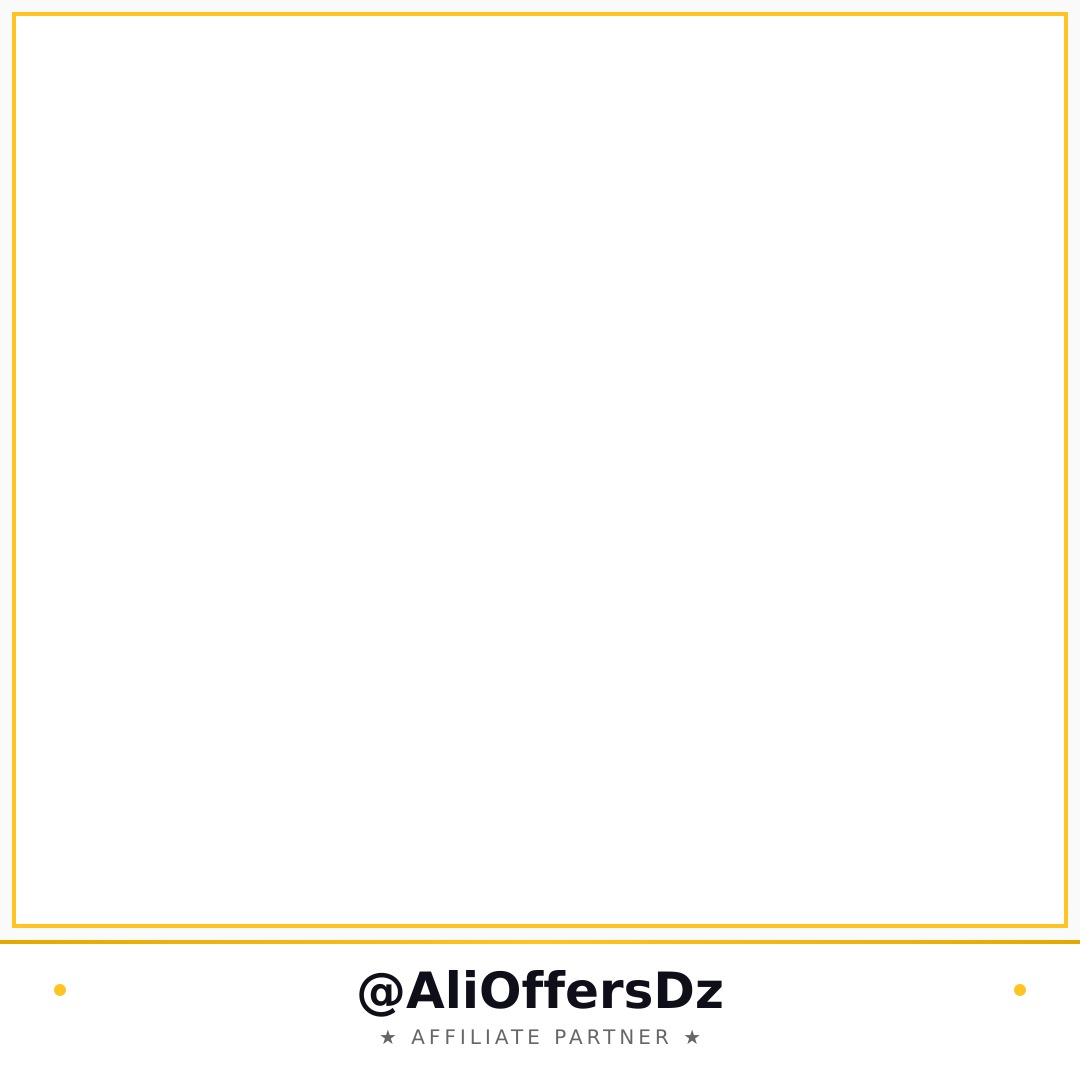
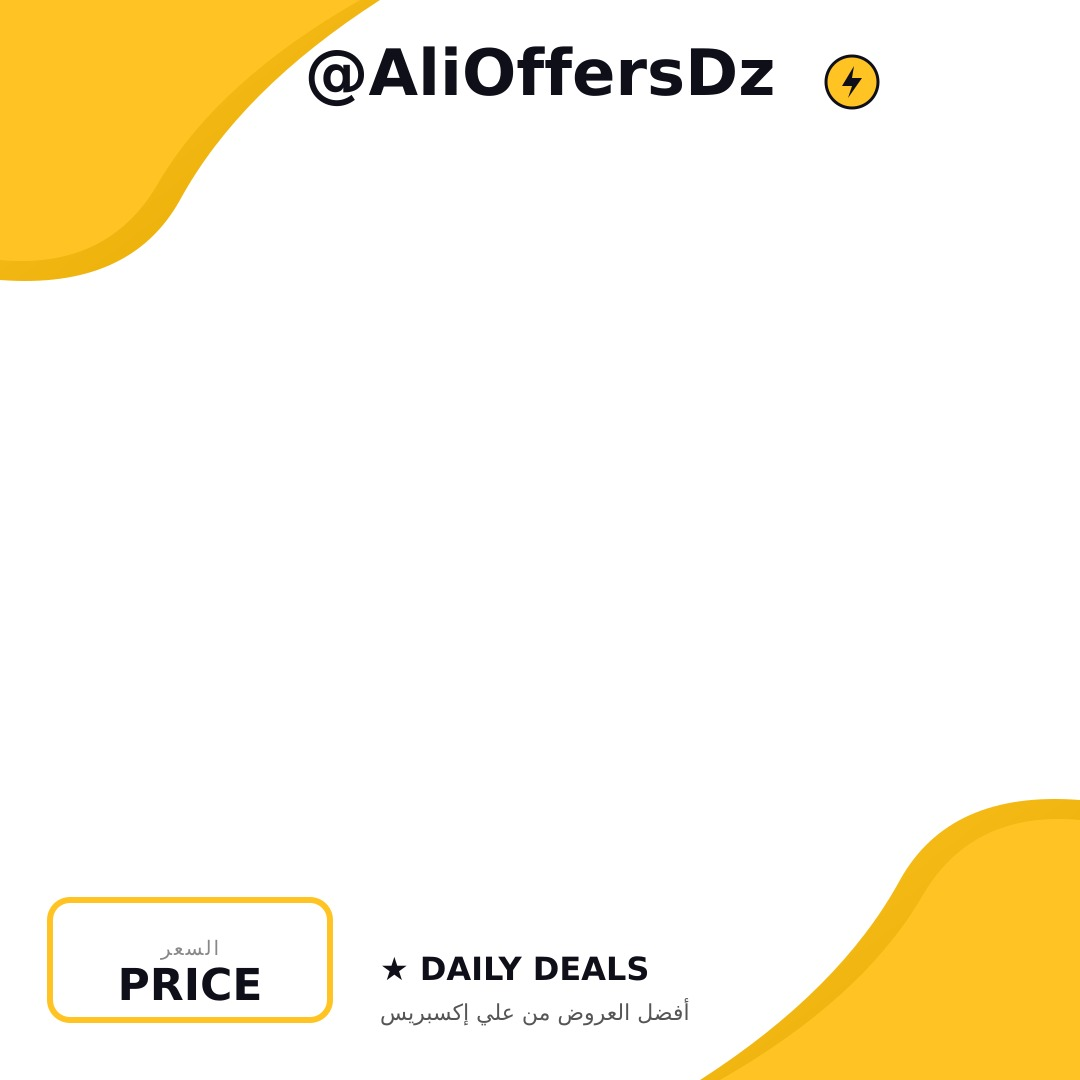
Update product display frame with new yellow design
Adjusts image processing in server.js and spy.js to accommodate a new frame layout with yellow corner accents and a prominent channel name, by modifying the product image's display area.

Replit-Commit-Author: Agent
Replit-Commit-Session-Id: a89dbef6-46b1-4384-9ed6-a8899594a70d
Replit-Commit-Checkpoint-Type: full_checkpoint
Replit-Commit-Event-Id: 2db6a3f4-3440-4351-8a7b-8e246a01739d
Replit-Commit-Screenshot-Url: https://storage.googleapis.com/screenshot-production-us-central1/1842d263-0a1c-4a9c-a11e-cf92325f49a5/a89dbef6-46b1-4384-9ed6-a8899594a70d/TJaDCon
Replit-Helium-Checkpoint-Created: true

Changed region(s): [[0.0, 0.0, 1.0, 1.0]]

diff --git a/scripts/build-frame.js b/scripts/build-frame.js
@@ -1,0 +1,80 @@
+// يُنشئ إطار custom_frame.jpg بأسلوب RT DEALS (انحناءات صفراء + رأس القناة)
+// منطقة المنتج: top=15%, height=70%, left=2%, width=96% — يجب مطابقتها في spy.js و server.js
+const sharp = require('sharp');
+const path = require('path');
+
+const SIZE = 1080;
+const YELLOW = '#FFC424';
+const YELLOW_DARK = '#E5A800';
+const DARK = '#0F0F1A';
+
+const svg = `
+<svg width="${SIZE}" height="${SIZE}" xmlns="http://www.w3.org/2000/svg">
+  <defs>
+    <linearGradient id="yShine" x1="0" y1="0" x2="1" y2="1">
+      <stop offset="0" stop-color="${YELLOW}"/>
+      <stop offset="1" stop-color="${YELLOW_DARK}"/>
+    </linearGradient>
+  </defs>
+  <!-- White base -->
+  <rect width="${SIZE}" height="${SIZE}" fill="white"/>
+
+  <!-- TOP-LEFT YELLOW SWOOSH (organic curve) -->
+  <path d="M 0 0 L 380 0 Q 240 90 180 200 Q 130 290 0 280 Z" fill="url(#yShine)"/>
+  <!-- Inner curve dark accent -->
+  <path d="M 0 0 L 360 0 Q 220 80 160 180 Q 110 270 0 260 Z" fill="${YELLOW}"/>
+
+  <!-- TOP CHANNEL NAME (centered with thunder bolt) -->
+  <text x="${SIZE/2}" y="95" font-family="Arial Black, Arial, sans-serif" font-size="64" font-weight="900" fill="${DARK}" text-anchor="middle">@AliOffersDz</text>
+  <!-- Thunder bolt circle next to text (right side) -->
+  <g transform="translate(${SIZE/2 + 290}, 60)">
+    <circle cx="22" cy="22" r="26" fill="${YELLOW}"/>
+    <circle cx="22" cy="22" r="26" fill="none" stroke="${DARK}" stroke-width="3"/>
+    <path d="M 24 6 L 12 26 L 22 26 L 18 38 L 32 18 L 22 18 Z" fill="${DARK}"/>
+  </g>
+
+  <!-- BOTTOM-RIGHT YELLOW SWOOSH (mirrored organic curve) -->
+  <path d="M ${SIZE} ${SIZE} L ${SIZE-380} ${SIZE} Q ${SIZE-240} ${SIZE-90} ${SIZE-180} ${SIZE-200} Q ${SIZE-130} ${SIZE-290} ${SIZE} ${SIZE-280} Z" fill="url(#yShine)"/>
+  <path d="M ${SIZE} ${SIZE} L ${SIZE-360} ${SIZE} Q ${SIZE-220} ${SIZE-80} ${SIZE-160} ${SIZE-180} Q ${SIZE-110} ${SIZE-270} ${SIZE} ${SIZE-260} Z" fill="${YELLOW}"/>
+
+  <!-- BOTTOM-LEFT PRICE TAG SHAPE (decorative — looks like price will go here) -->
+  <g transform="translate(50, ${SIZE-180})">
+    <!-- White rounded card with yellow border -->
+    <rect x="0" y="0" width="280" height="120" rx="20" fill="white" stroke="${YELLOW}" stroke-width="6"/>
+    <text x="140" y="55" font-family="Arial, sans-serif" font-size="20" fill="#888" text-anchor="middle" letter-spacing="2">السعر</text>
+    <text x="140" y="100" font-family="Arial Black, sans-serif" font-size="44" font-weight="900" fill="${DARK}" text-anchor="middle">PRICE</text>
+  </g>
+
+  <!-- BOTTOM tagline (right of price tag) -->
+  <text x="380" y="${SIZE-100}" font-family="Arial Black, sans-serif" font-size="32" font-weight="900" fill="${DARK}">★ DAILY DEALS</text>
+  <text x="380" y="${SIZE-60}" font-family="Arial, sans-serif" font-size="22" fill="#555">أفضل العروض من علي إكسبريس</text>
+</svg>`;
+
+(async () => {
+  const outPath = path.join(__dirname, '..', 'public', 'custom_frame.jpg');
+  await sharp(Buffer.from(svg)).jpeg({ quality: 92 }).toFile(outPath);
+  console.log('✅ Built custom_frame.jpg (RT DEALS style)');
+  // Generate preview with sample product
+  const productSvg = `<svg width="1080" height="1080" xmlns="http://www.w3.org/2000/svg">
+    <defs><linearGradient id="g" x1="0" y1="0" x2="1" y2="1"><stop offset="0" stop-color="#667eea"/><stop offset="1" stop-color="#764ba2"/></linearGradient></defs>
+    <rect width="1080" height="1080" fill="url(#g)"/>
+    <circle cx="540" cy="540" r="280" fill="white"/>
+    <text x="540" y="500" font-family="Arial Black" font-size="80" font-weight="900" fill="#333" text-anchor="middle">PRODUCT</text>
+    <text x="540" y="600" font-family="Arial" font-size="56" fill="#666" text-anchor="middle">صورة المنتج</text>
+  </svg>`;
+  const productBuf = await sharp(Buffer.from(productSvg)).jpeg().toBuffer();
+
+  // NEW geometry: top=15%, height=70%, left=2%, width=96%
+  const innerLeft = Math.round(1080 * 0.02);
+  const innerTop = Math.round(1080 * 0.15);
+  const innerW = Math.round(1080 * 0.96);
+  const innerH = Math.round(1080 * 0.70);
+  const resizedProduct = await sharp(productBuf)
+    .resize(innerW, innerH, { fit: 'contain', background: { r: 255, g: 255, b: 255, alpha: 1 } })
+    .toBuffer();
+  await sharp(outPath)
+    .composite([{ input: resizedProduct, left: innerLeft, top: innerTop, blend: 'over' }])
+    .jpeg({ quality: 90 })
+    .toFile('/tmp/preview_yellow.jpg');
+  console.log('✅ Preview saved to /tmp/preview_yellow.jpg');
+})().catch(e => { console.error(e); process.exit(1); });

diff --git a/server.js b/server.js
@@ -982,10 +982,11 @@ app.post('/api/frame-image', async (req, res) => {
     const frameWidth = frameMetadata.width;
     const frameHeight = frameMetadata.height;
     
+    // New geometry for RT DEALS-style frame: top header 15%, product 70%, bottom 15%
     const innerLeft = Math.round(frameWidth * 0.02);
-    const innerTop = Math.round(frameHeight * 0.02);
+    const innerTop = Math.round(frameHeight * 0.15);
     const innerWidth = Math.round(frameWidth * 0.96);
-    const innerHeight = Math.round(frameHeight * 0.85);
+    const innerHeight = Math.round(frameHeight * 0.70);
     
     const resizedProduct = await sharp(productImageBuffer)
       .resize(innerWidth, innerHeight, { fit: 'contain', background: { r: 255, g: 255, b: 255, alpha: 1 } })

diff --git a/spy.js b/spy.js
@@ -466,10 +466,11 @@ async function applyFrameToImage(productImage, imageUrl, watermark) {
 
     const meta = await sharp(useFramePath).metadata();
     const fW = meta.width, fH = meta.height;
+    // New geometry for RT DEALS-style frame: top header 15%, product 70%, bottom 15%
     const innerLeft = Math.round(fW * 0.02);
-    const innerTop = Math.round(fH * 0.02);
+    const innerTop = Math.round(fH * 0.15);
     const innerW = Math.round(fW * 0.96);
-    const innerH = Math.round(fH * 0.85);
+    const innerH = Math.round(fH * 0.70);
 
     const resizedProduct = await sharp(buffer)
       .resize(innerW, innerH, { fit: 'contain', background: { r: 255, g: 255, b: 255, alpha: 1 } })